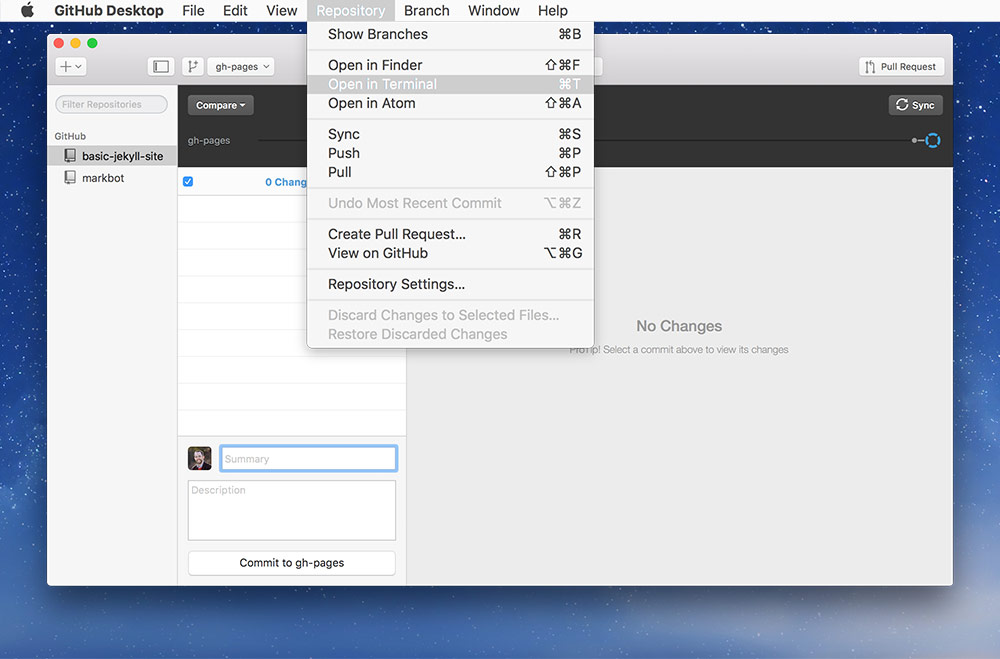
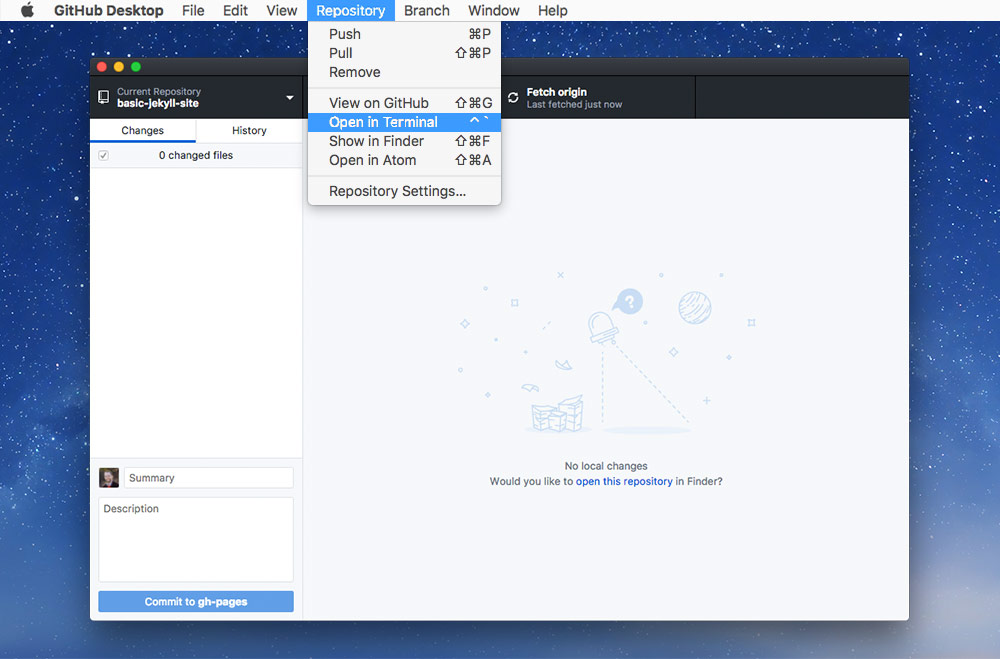
Update the week 6 materials

diff --git a/jekyll-web-master-pages.md b/jekyll-web-master-pages.md
@@ -18,7 +18,15 @@ slides:
       - The HTML for cards is repeated multiple times
       - etc.
 
-      **Jekyll: resuse HTML without copy-and-paste.**
+      **Jekyll: re-use HTML without copy-and-paste.**
+
+  - content: |
+      ## Why use this tool?
+
+      - Jekyll is just one of many page templating tools
+      - Helps to learn how larger websites are created
+      - Takes the pattern library idea to the next level
+      - The template system is used in other places, like Shopify
 
   - content: |
       ## Page generation & shared HTML
@@ -29,18 +37,36 @@ slides:
       - Variable data, like Illustrator & Photoshop
         <br>*Create whole layouts from data files*
 
-  - content: |
-      ## Master pages (layouts)
+  - type: figure
+    image: "layouts.svg"
+    caption: "Master pages (layouts)"
+    notes: |
+      With Jekyll we can write some HTML that represents the main parts of the website (header, footer, navigation)—called a layout.
 
-      ![](layouts.svg)
+      On each page of the website we then don’t need to repeat those HTML bits the content can just be inserted into the layout automatically.
 
-  - content: |
-      ## Automatically populating data
-
-      ![](data.svg)
+  - type: figure
+    image: "data.svg"
+    caption: "Automatically populating data"
+    notes: |
+      With Jekyll we can generate pages where information is stored in a dataset. We can retrieve that information and stick it into an HTML template where we choose to automatically create pages.
 
   - type: image
     image: "terminal.jpg"
+    notes: |
+      Jekyll is a command-line tool; it is started and stopped in the Terminal.
+
+      **Your Terminal will look different; mine is super customized.**
+
+      From inside GitHub Desktop, in the menu, go to `Repository > Open in Terminal` to get Terminal to navigate to the correct folder.
+
+      Type the following to start Jekyll:
+
+      ```sh
+      jekyll serve --baseurl=""
+      ```
+
+      Type `Control-C` at any time in Terminal to stop Jekyll—or just close the window.
 
   - type: folders
     folders:
@@ -68,10 +94,17 @@ slides:
         notes: "Jekyll setup goes in this file"
       - label: "index.html"
         indent: 1
+    notes: |
+      Jekyll has a very specific folder structure that we must follow for Jekyll to function properly.
 
   - type: code
     html_file: "_layouts/default.html"
-    html_lines: 9
+    html_lines:
+      - num: 9
+        text: |
+          This is an example layout. It has all the boilerplate code so we don’t need to repeat it.
+
+          The `{{content}}` variable is a placeholder for where the HTML & text from the actual page will be inserted.
     html: |
       <!DOCTYPE html>
       <html lang="en-ca">
@@ -88,7 +121,14 @@ slides:
 
   - type: code
     html_file: "index.html"
-    html_lines: "1-3"
+    html_lines:
+      - num: "1-3"
+        text: |
+          Inside our actual page, `index.html` for example, we don’t need to write any of the HTML boilerplate.
+
+          All we have to do is tell Jekyll which layout to load by using YAML metadata (similar to our pattern libraries).
+
+          All of the info below the frontmatter block will be inserted into the `{{content}}` placeholder in the layout.
     html: |
       ---
       layout: default
@@ -97,6 +137,14 @@ slides:
       <h1>Please don’t deactivate me</h1>
 
   - type: code
+    notes: |
+      Jekyll will automatically take those two pieces and combine them together into one single HTML file.
+
+      The final version is stored in the `_site` folder. There are some rules for the `_site` folder:
+
+      1. Never edit anything in the `_site` folder
+      2. The `_site` folder is temporary and can be safely deleted
+      3. The `_site` folder should **never** be committed into the repository
     html_file: "_site/index.html"
     html: |
       <!DOCTYPE html>
@@ -114,7 +162,10 @@ slides:
 
   - type: code
     html_file: "_layouts/default.html"
-    html_lines: 5
+    html_lines:
+      - num: 5
+        text: |
+          The layout can specify other variables that the page can fill in. Here we’re specifying a variable named `title`
     html: |
       <!DOCTYPE html>
       <html lang="en-ca">
@@ -131,7 +182,10 @@ slides:
 
   - type: code
     html_file: "index.html"
-    html_lines: 3
+    html_lines:
+      - num: 3
+        text: |
+          In the frontmatter we can write `title` followed by some info.
     html: |
       ---
       layout: default
@@ -142,7 +196,10 @@ slides:
 
   - type: code
     html_file: "_site/index.html"
-    html_lines: 5
+    html_lines:
+      - num: 5
+        text: |
+          And Jekyll will automatically insert that information into the right location when it’s generating the final file.
     html: |
       <!DOCTYPE html>
       <html lang="en-ca">

diff --git a/basic-jekyll-site.md b/basic-jekyll-site.md
@@ -23,15 +23,12 @@ goal:
     - label: "Type it, type it real good"
       text: "Remember the purpose of this lesson is to type the code out yourself—build up that muscle memory in your fingers!"
 
+fork:
+  url: "https://github.com/acgd-webdev-5/basic-jekyll-site/fork"
+
 steps:
   - title: "Set up the project"
     before: |
-      There’s a basic starter repo that has the images you need inside it—we’re going to work from that.
-
-      ### [Fork this repo.](https://github.com/acgd-webdev-5/basic-jekyll-site/fork)
-
-      **Then clone it to your computer.**
-
       You should now have the `basic-jekyll-site` folder and the `images` folder but we still need to make a few **blank** files.
     folders:
       - label: "basic-jekyll-site"
@@ -57,9 +54,8 @@ steps:
         indent: 2
         fade: true
     after: |
-      1. Drag the `basic-jekyll-site` folder into your code editor
-      2. Make a new `index.html` file
-      3. Make a new `main.css` in your `css` folder
+      1. Make a new `index.html` file
+      2. Make a new `main.css` in your `css` folder
 
       *All of these files can remain empty for now.*
     notes:
@@ -79,10 +75,6 @@ steps:
       - label: "index.html"
         indent: 1
         fade: true
-      - label: "css"
-        type: folder
-        indent: 1
-        fade: true
       - continue: true
     code_before: "Type the following code in your `_config.yml` to set some defaults for Jekyll."
     code_lang: yaml
@@ -100,7 +92,7 @@ steps:
 
       ![](config.jpg)
 
-      And now we’re ready to start Jekyll!
+      We’re just about ready to start Jekyll—we just have one more configuration step…
 
   - title: "Set Git to ignore Jekyll files"
     before: |
@@ -123,10 +115,6 @@ steps:
         indent: 1
         fade: true
       - label: "index.html"
-        indent: 1
-        fade: true
-      - label: "css"
-        type: folder
         indent: 1
         fade: true
       - continue: true
@@ -305,6 +293,8 @@ steps:
       ### [**http://localhost:4000/dinosaurs/**](http://localhost:4000/dinosaurs/)
 
       ![](dinosaurs.jpg)
+
+      *Notice that the URL doesn’t have `.html` in it.* In Jekyll we’re using “pretty permalinks” meaning Jekyll will strip off the `.html` extensions. **This is also good practice for search engine optimization.**
 
   - title: "Link the pages together"
     before: |

diff --git a/week-06.md b/week-06.md
@@ -19,7 +19,6 @@ video_tutorials:
 slides:
   - title: "Jekyll: web master pages"
     url: jekyll-web-master-pages
-    disabled: true
 
 tasks:
   - type: blank
@@ -28,14 +27,11 @@ tasks:
     type: basic
     submit: show
     button: activity
-    disabled: true
   - title: "Basic Jekyll site"
     url: basic-jekyll-site
     submit: show
-    disabled: true
   - title: "Jekyll portfolio"
     url: "https://github.com/acgd-webdev-5/jekyll-portfolio"
     submit: show
-    disabled: true
   - type: watch-videos
 ---
